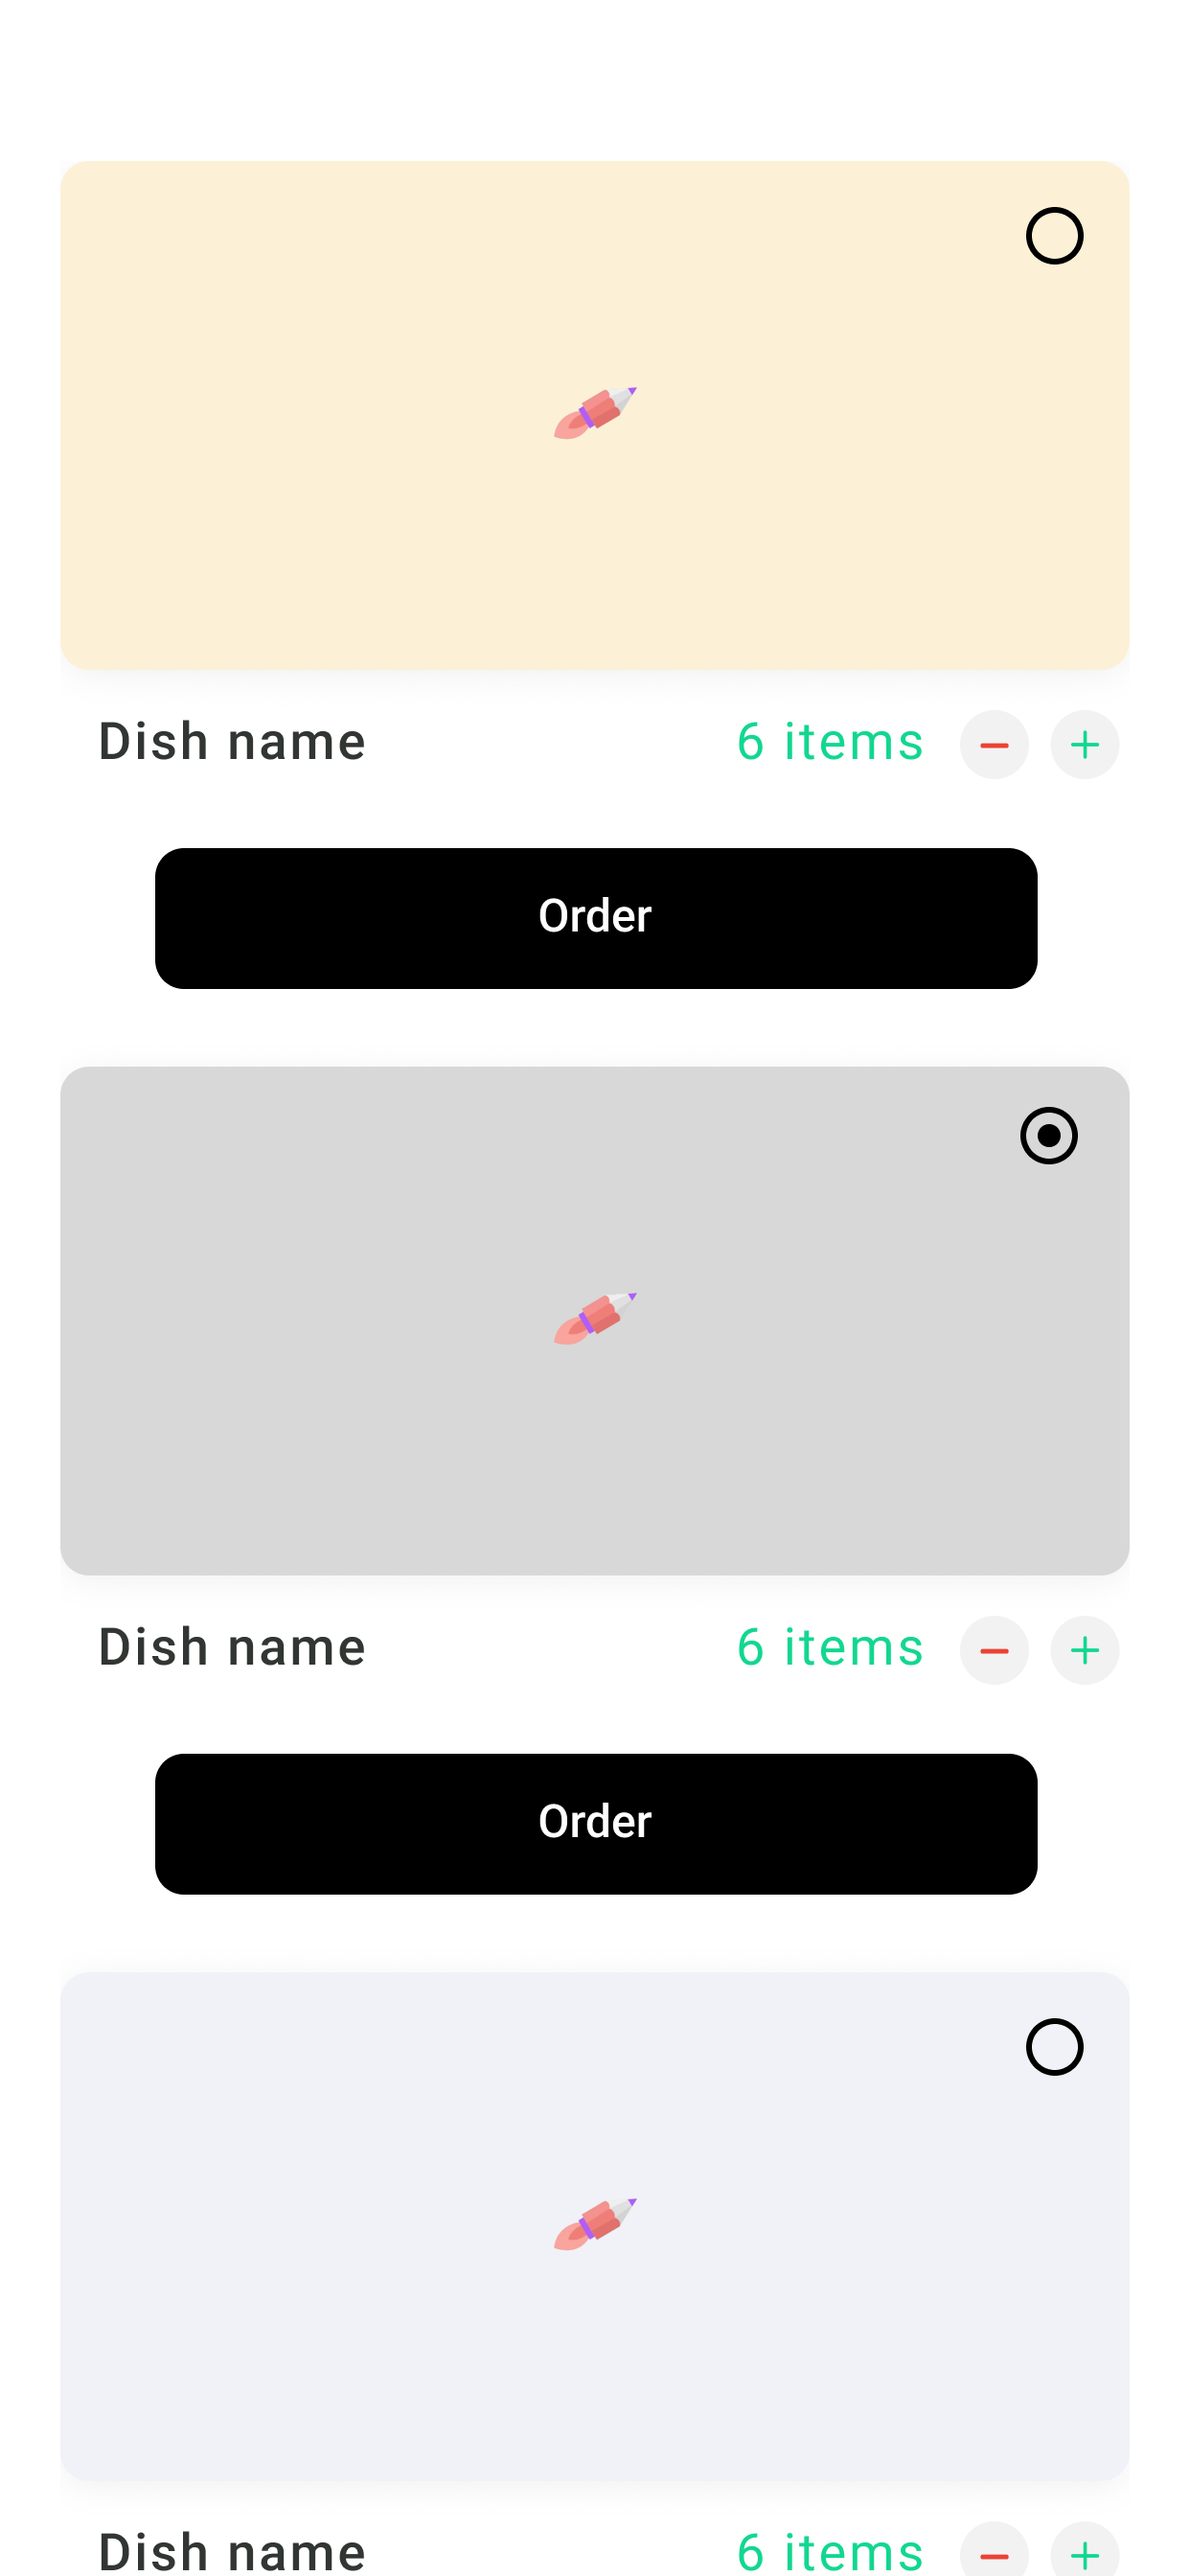
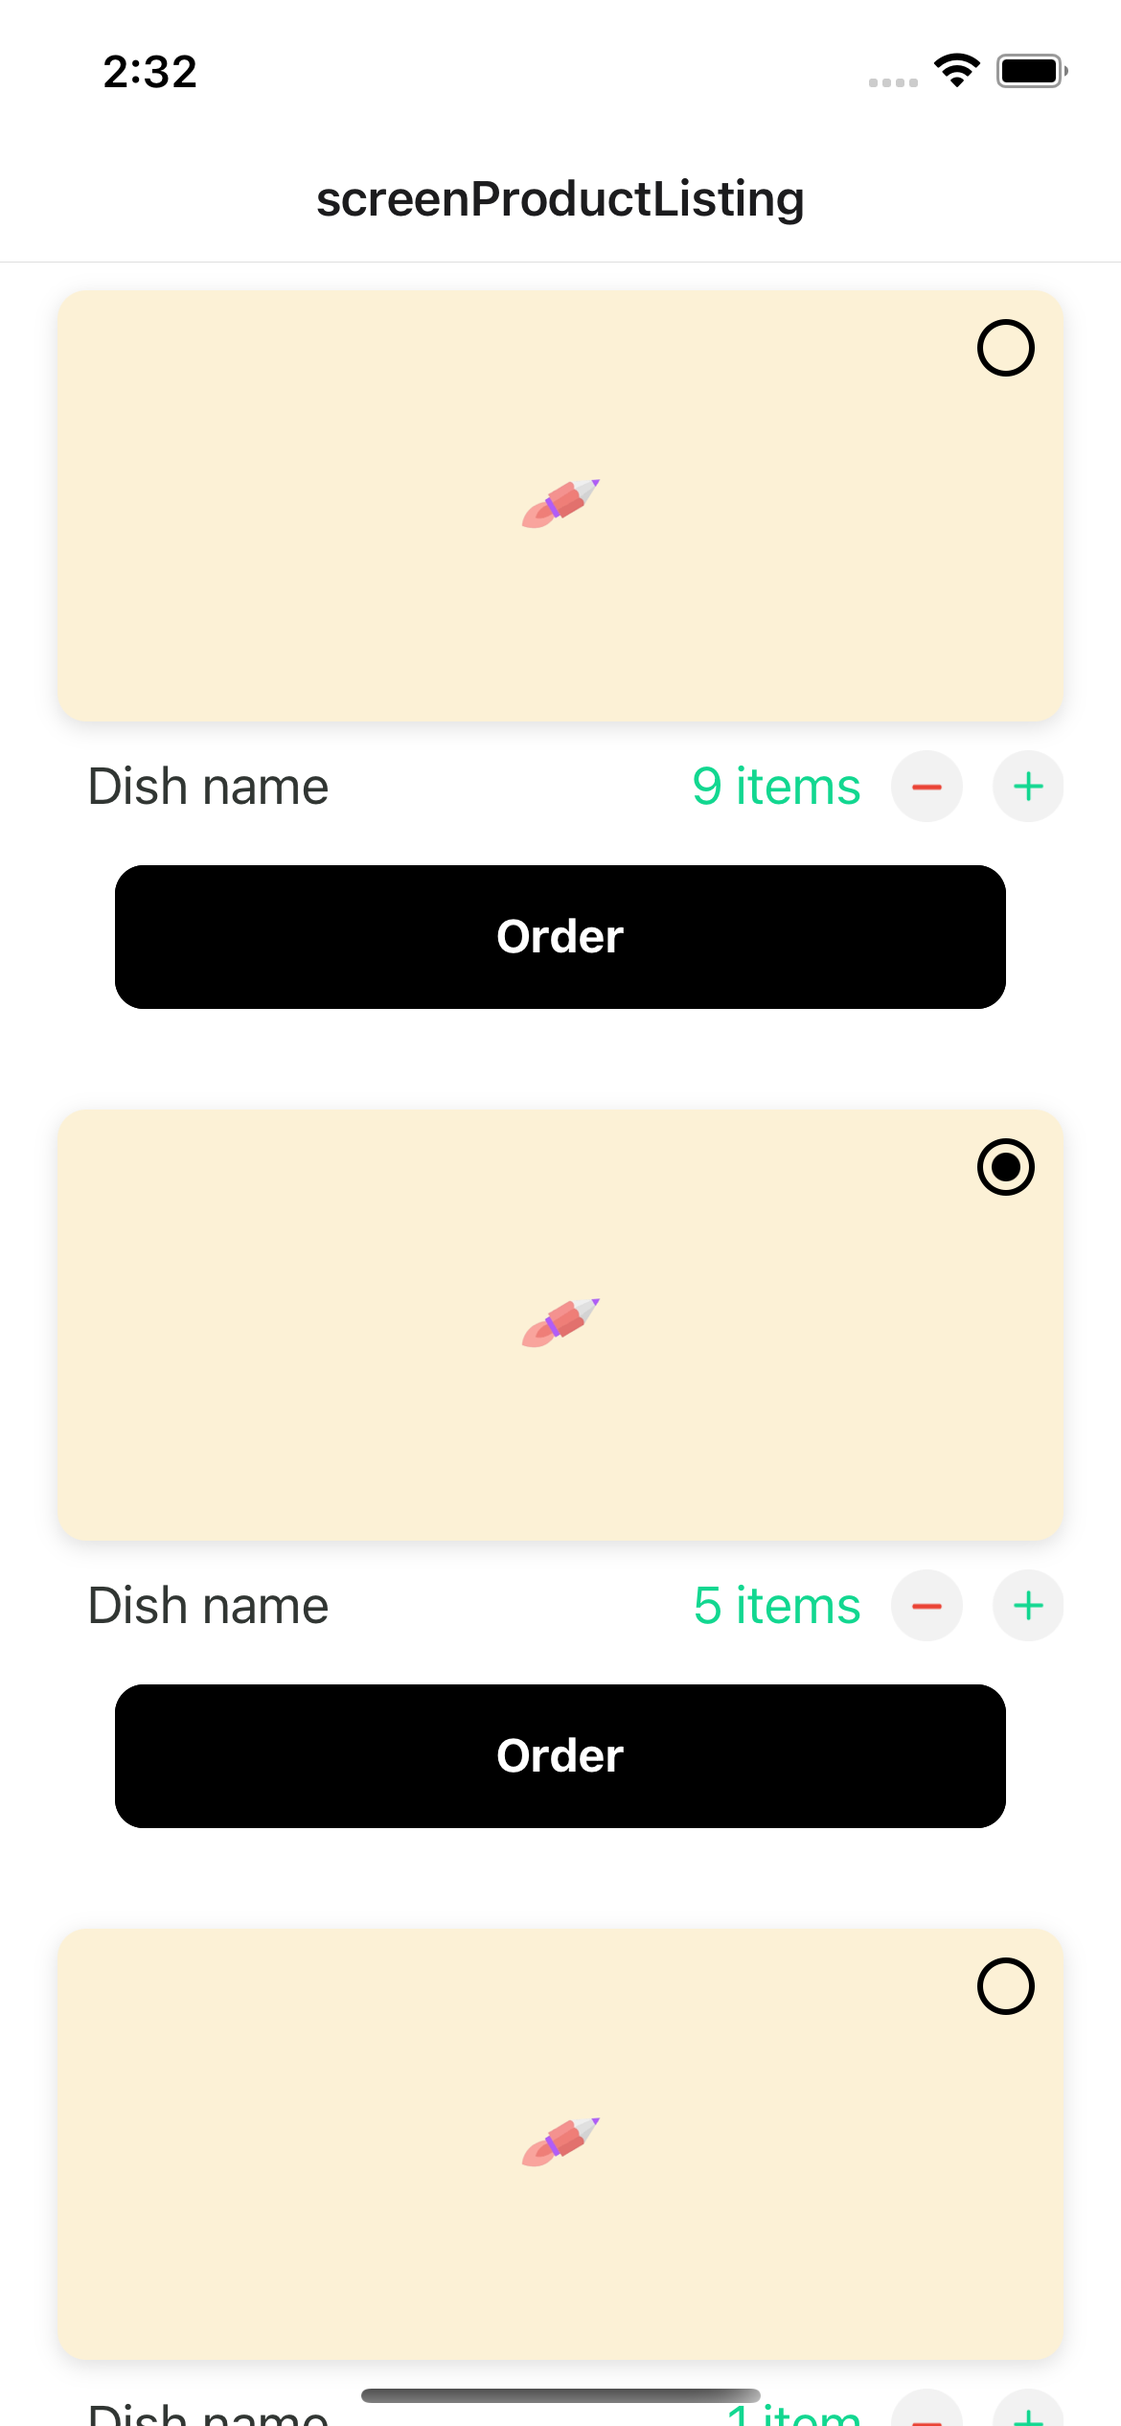
product listing screen added

diff --git a/screens/screen-product-listing/index.js b/screens/screen-product-listing/index.js
@@ -1,14 +1,107 @@
-import React from "react";
+import React, { useState, useEffect } from "react";
 import {
   Text,
   View,
-  StyleSheet
+  StyleSheet,
+  Image,
+  Pressable,
+  FlatList
 } from "react-native";
 
 const ProductListing = () => {
+  const [products, setProducts] = useState([]);
+  const [selectedProducts, setSelectedProducts] = useState([]);
+  useEffect(() => {
+    setProducts([
+      {
+        id: 1,
+        title: "Dish name",
+        count: 1,
+        image: require("./assets/productImage.png")
+      },
+      {
+        id: 2,
+        title: "Dish name",
+        count: 1,
+        image: require("./assets/productImage.png")
+      },
+      {
+        id: 3,
+        title: "Dish name",
+        count: 1,
+        image: require("./assets/productImage.png")
+      },
+      {
+        id: 4,
+        title: "Dish name",
+        count: 1,
+        image: require("./assets/productImage.png")
+      }
+    ]);
+  }, []);
+  const handleProductSelect = product => {
+    if (selectedProducts.includes(product)) {
+      let newSelectedProducts = selectedProducts.filter(
+        selectedProduct => selectedProduct.id !== product.id
+      );
+      setSelectedProducts(newSelectedProducts);
+    } else {
+      setSelectedProducts([...selectedProducts, product]);
+    }
+  };
+  const handleCountChange = (type, product) => {
+    let newProducts = products.map(item => {
+      if (item.id === product.id) {
+        if (type === "increase") {
+          item.count++;
+        } else if (type === "decrease") {
+          if (item.count > 1) {
+            item.count--;
+          }
+        }
+      }
+      return item;
+    });
+    setProducts(newProducts);
+  };
   return (
     <View style={styles.container}>
-      <Text style={styles.heading}>Product Listing</Text>
+      <FlatList
+        data={products}
+        renderItem={({ item }) => (
+          <View style={styles.productContainer}>
+            <View style={styles.imageContainer}>
+              <Image style={styles.image} source={item.image} />
+              <Radio
+                style={styles.radio}
+                selected={selectedProducts.includes(item)}
+                onPress={() => handleProductSelect(item)}
+              />
+            </View>
+            <View style={styles.flexRow}>
+              <Text style={styles.productName}>{item.title}</Text>
+              <View style={styles.flexRow}>
+                <Text style={styles.counterText}>
+                  {item.count} item{item.count > 1 && "s"}
+                </Text>
+                <Pressable onPress={() => handleCountChange("decrease", item)}>
+                  <Image
+                    style={styles.icon}
+                    source={require("./assets/decrementIcon.png")}
+                  />
+                </Pressable>
+                <Pressable onPress={() => handleCountChange("increase", item)}>
+                  <Image
+                    style={styles.icon}
+                    source={require("./assets/incrementIcon.png")}
+                  />
+                </Pressable>
+              </View>
+            </View>
+            <Button buttonText="Order" style={styles.button} hideShadow />
+          </View>
+        )}
+      />
     </View>
   );
 };
@@ -19,7 +112,155 @@ const styles = StyleSheet.create({
   },
   heading: {
     fontSize: 20
+  },
+  productContainer: {
+    paddingHorizontal: 20,
+    width: "100%",
+    marginVertical: 10
+  },
+  imageContainer: {
+    width: 350,
+    height: 150,
+    borderRadius: 10,
+    justifyContent: "center",
+    alignItems: "center",
+    marginBottom: 10,
+    shadowColor: "rgba(0, 0, 0, 0.5)",
+    shadowOffset: {
+      width: 0,
+      height: 2
+    },
+    shadowOpacity: 0.25,
+    shadowRadius: 3.84,
+    elevation: 5
+  },
+  radio: {
+    position: "absolute",
+    top: 10,
+    right: 10
+  },
+  image: {
+    width: "100%",
+    height: "100%",
+    alignSelf: "center",
+    borderRadius: 10
+  },
+  flexRow: {
+    flexDirection: "row",
+    justifyContent: "space-between",
+    alignItems: "center"
+  },
+  productName: {
+    fontSize: 18,
+    color: "#313633",
+    marginLeft: 10,
+    flex: 1
+  },
+  counterText: {
+    fontSize: 18,
+    color: "#12D790"
+  },
+  icon: {
+    width: 25,
+    height: 25,
+    marginLeft: 10
+  },
+  button: {
+    marginHorizontal: 20,
+    marginVertical: 15
   }
 });
 
 export default ProductListing;
+
+const Button = params => {
+  const backgroundColor = params.backgroundColor || "#000";
+  const textColor = params.textColor || "#fff";
+  const btnStyle = {
+    backgroundColor: backgroundColor,
+    borderColor: params.borderColor || backgroundColor,
+    borderWidth: 1
+  };
+  const btnText = {
+    color: textColor
+  };
+  return (
+    <View style={[buttonStyles.btnContainer, params.style]}>
+      <View style={!params.hideShadow ? buttonStyles.shadowContainer : null}>
+        <Pressable
+          style={[buttonStyles.btn, btnStyle]}
+          onPress={params.onPress}>
+          <Text style={[buttonStyles.btnText, btnText]}>
+            {params.buttonText}
+          </Text>
+          <View style={styles.childrenContainer}>{params.children}</View>
+        </Pressable>
+      </View>
+    </View>
+  );
+};
+
+const buttonStyles = StyleSheet.create({
+  btnContainer: {
+    justifyContent: "center"
+  },
+  shadowContainer: {
+    shadowColor: "rgba(0, 0, 0, 0.5)",
+    shadowOffset: {
+      width: 0,
+      height: 5
+    },
+    shadowOpacity: 0.5,
+    shadowRadius: 10,
+    elevation: 10,
+    backgroundColor: "#fff",
+    borderRadius: 10
+  },
+  btn: {
+    height: 50,
+    padding: 10,
+    paddingHorizontal: 25,
+    borderRadius: 10,
+    justifyContent: "center",
+    alignItems: "center",
+
+    flexDirection: "row"
+  },
+  btnText: {
+    color: "#fff",
+    fontSize: 16,
+    fontWeight: "bold"
+  },
+  childrenContainer: {
+    justifyContent: "center",
+    alignItems: "center"
+  }
+});
+
+const Radio = props => {
+  return (
+    <Pressable
+      style={[radioStyles.container, props.style]}
+      onPress={props.onPress}>
+      {props.selected && <View style={radioStyles.radio} />}
+    </Pressable>
+  );
+};
+
+const radioStyles = StyleSheet.create({
+  container: {
+    width: 20,
+    height: 20,
+    borderRadius: 10,
+    borderWidth: 2,
+    borderColor: "#000",
+    justifyContent: "center",
+    alignItems: "center"
+  },
+  radio: {
+    width: 10,
+    height: 10,
+    borderRadius: 5,
+    backgroundColor: "#000"
+  }
+});

diff --git a/components/Radio/Radio.js b/components/Radio/Radio.js
@@ -1,0 +1,27 @@
+const Radio = props => {
+  return (
+    <Pressable
+      style={[radioStyles.container, props.style]}
+      onPress={props.onPress}>
+      {props.selected && <View style={radioStyles.radio} />}
+    </Pressable>
+  );
+};
+
+const radioStyles = StyleSheet.create({
+  container: {
+    width: 20,
+    height: 20,
+    borderRadius: 10,
+    borderWidth: 2,
+    borderColor: "#000",
+    justifyContent: "center",
+    alignItems: "center"
+  },
+  radio: {
+    width: 10,
+    height: 10,
+    borderRadius: 5,
+    backgroundColor: "#000"
+  }
+});

diff --git a/modules/index.js b/modules/index.js
@@ -2,7 +2,7 @@ import mods from "./*/index.js";
 import { getModules } from "./modules.js";
 
 export const modules = getModules(mods);
-export const initialRoute = "screenOnboardingStack";
+export const initialRoute = "screenProductListing";
 // export const initialRoute = modules[0].value.title;
 export const slices = modules
   .filter(mod => mod.value.slice)
